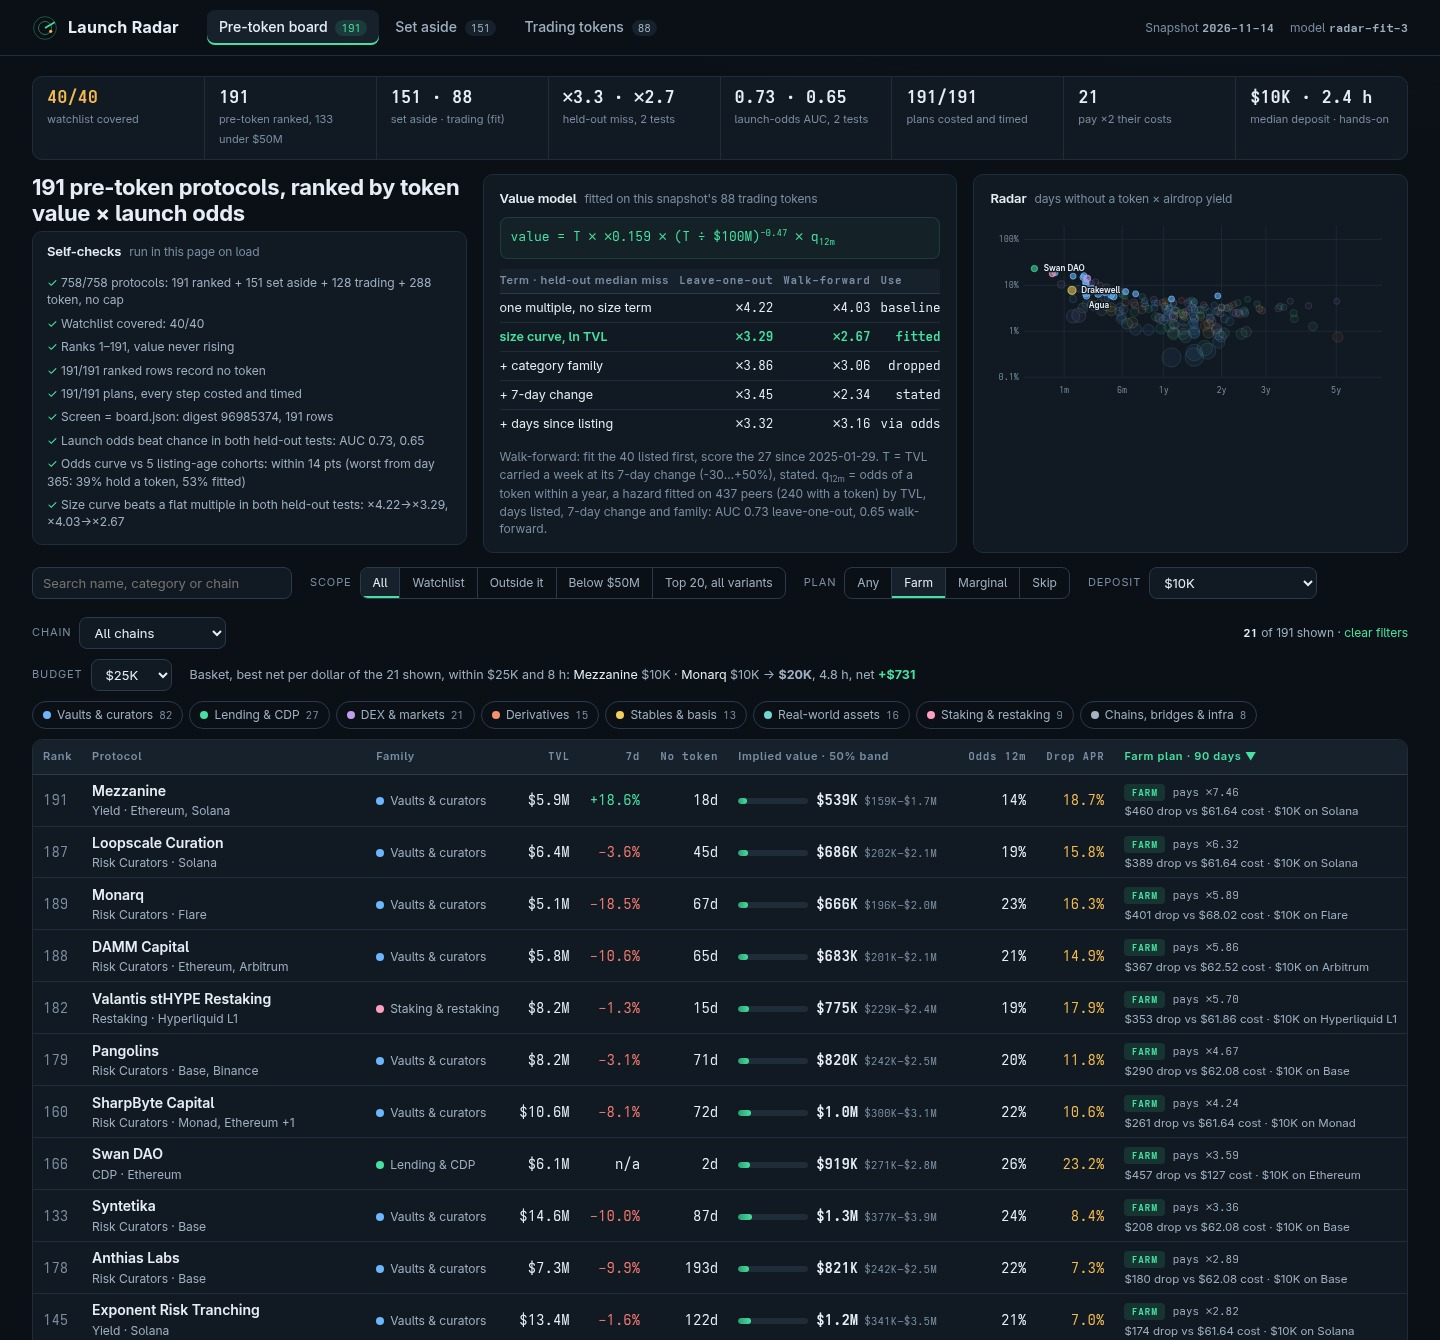
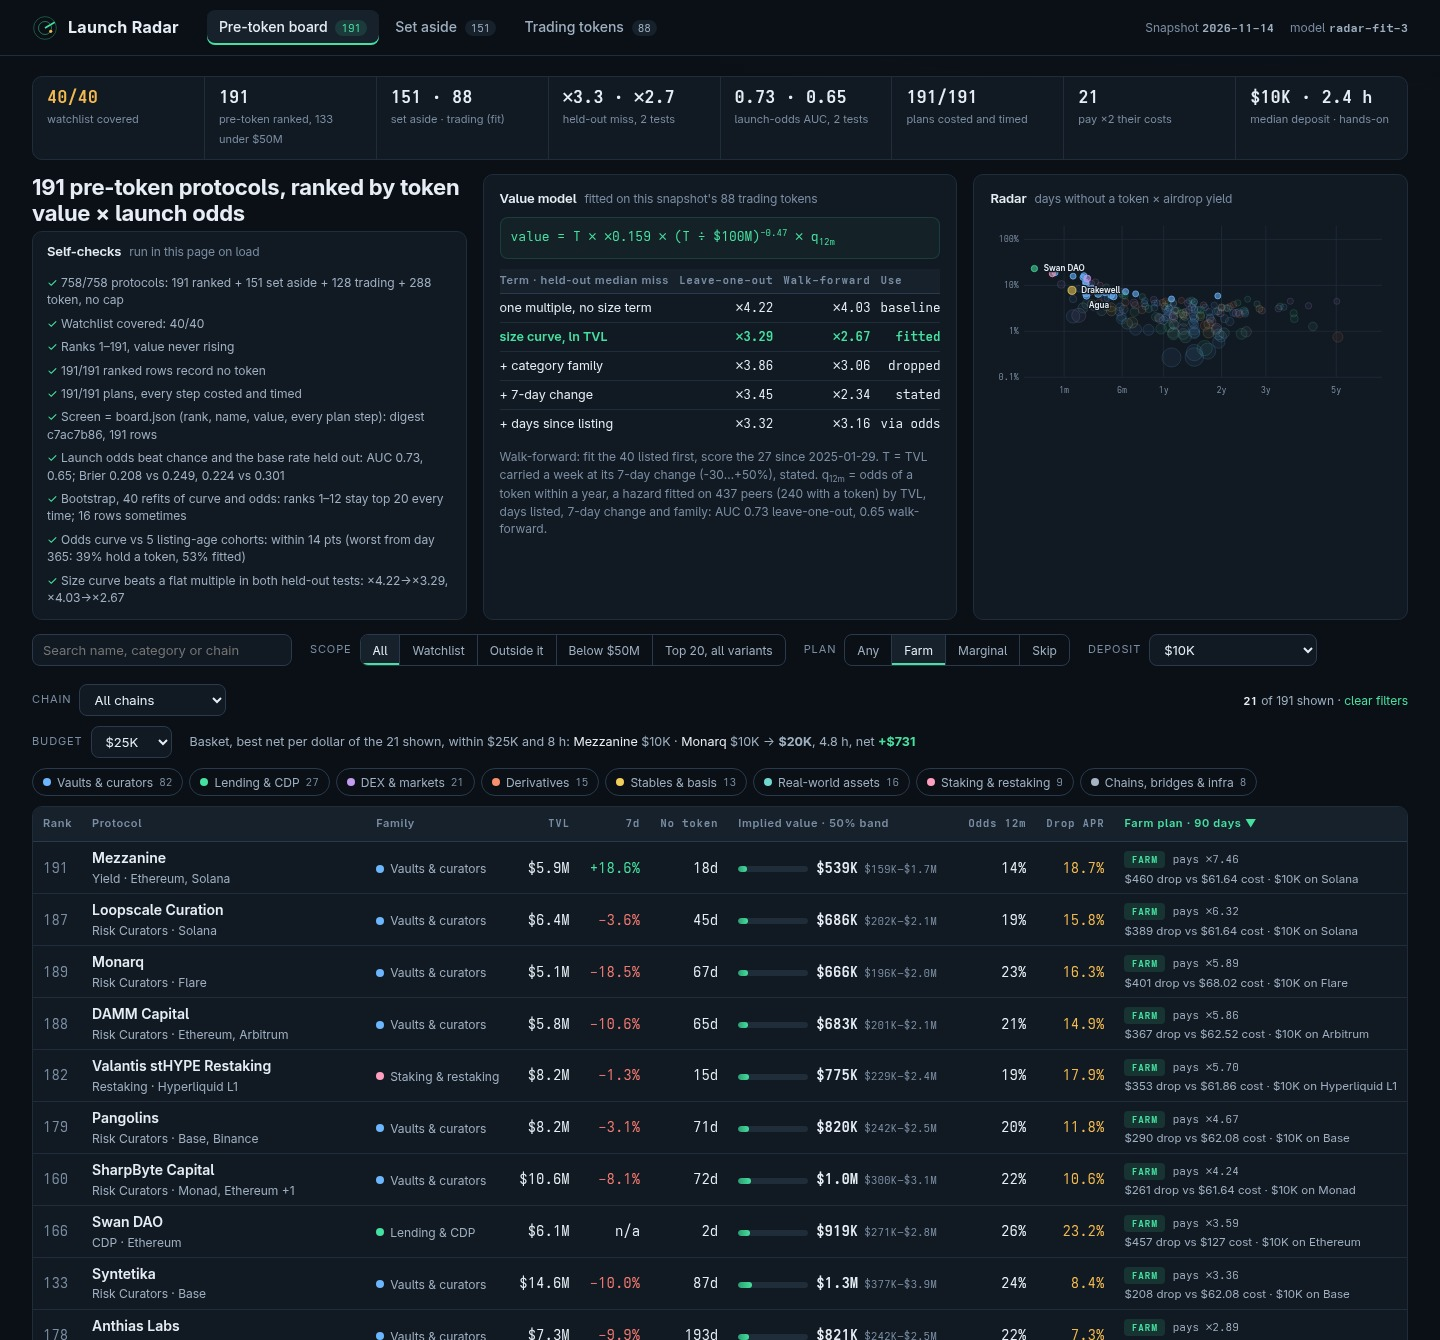
Launch odds Brier vs base rate (leave-one-out and walk-forward); 40-draw bootstrap of curve and odds with top-20 frequency; digest covers rank, name, value and every plan step; family entry decided by both held-out tests; shared table helper

diff --git a/dashboard/app.js b/dashboard/app.js
@@ -125,8 +125,9 @@
     [rows.every((r, i) => r.rank === i + 1 && (!i || r.v.implied <= rows[i - 1].v.implied)), `Ranks 1–${rows.length}, value never rising`],
     [rows.every((r) => r.p.gecko_id == null && r.p.symbol == null && r.p.mcap_usd == null), `${rows.length}/${rows.length} ranked rows record no token`],
     [bRows.every((b) => b.farm_steps.length >= 3 && b.farm_steps.length <= 12 && b.farm_steps.every((t) => / Cost: .+ Time: /.test(t))), `${bRows.length}/${bRows.length} plans, every step costed and timed`],
-    [B.digest === dig && B.rows === rows.length, `Screen = board.json: digest ${dig}, ${B.rows || 0} rows`],
-    [O.auc_loo > 0.5 && O.auc_wf > 0.5, `Launch odds beat chance in both held-out tests: AUC ${O.auc_loo.toFixed(2)}, ${O.auc_wf.toFixed(2)}`],
+    [B.digest === dig && B.rows === rows.length, `Screen = board.json (rank, name, value, every plan step): digest ${dig}, ${B.rows || 0} rows`],
+    [O.auc_loo > 0.5 && O.auc_wf > 0.5 && O.brier.loo < O.brier.loo_base && O.brier.wf < O.brier.wf_base, `Launch odds beat chance and the base rate held out: AUC ${O.auc_loo.toFixed(2)}, ${O.auc_wf.toFixed(2)}; Brier ${O.brier.loo.toFixed(3)} vs ${O.brier.loo_base.toFixed(3)}, ${O.brier.wf.toFixed(3)} vs ${O.brier.wf_base.toFixed(3)}`],
+    [true, `Bootstrap, 40 refits of curve and odds: ranks 1–${rows.findIndex((r) => r.boot < 1)} stay top 20 every time; ${rows.filter((r) => r.boot > 0 && r.boot < 1).length} rows sometimes`],
     ((w) => [O.gap < 0.2, `Odds curve vs ${O.cohorts.length} listing-age cohorts: within ${Math.round(O.gap * 100)} pts (worst from day ${w.from}: ${pc(w.actual)} hold a token, ${pc(w.fitted)} fitted)`])(O.cohorts.reduce((a, c) => Math.abs(c.actual - c.fitted) > Math.abs(a.actual - a.fitted) ? c : a)),
     [sizeT.ok, `Size curve beats a flat multiple in both held-out tests: ×${flatT.loo.toFixed(2)}→×${sizeT.loo.toFixed(2)}, ×${flatT.wf.toFixed(2)}→×${sizeT.wf.toFixed(2)}`]
   ];
@@ -215,7 +216,7 @@
       <div><h1>${esc(p.name)}</h1>
         <p class="tags">${famChip(v.family)}<span class="tag">${esc(p.category || 'Uncategorised')}</span><span class="tag pre">No token on record</span>${r.watch ? '<span class="tag wlt">On the watchlist</span>' : '<span class="tag">Outside the watchlist</span>'}</p>
         <p class="sub">${esc(p.chains.join(' · '))}${p.listed_at ? ` — tracked since ${esc(p.listed_at)}` : ' — no listing date on record'}</p></div>
-      <div class="dval"><small>Implied token value</small><b>${usd(v.implied)}</b><small>50% band ${usd(v.low)} – ${usd(v.high)} · ${mult(v.multiple)} TVL</small><small>Rank #${r.rank}; ${Object.keys(r.alt).map((k) => `#${r.alt[k]} ${k}`).join(' · ')}</small></div>
+      <div class="dval"><small>Implied token value</small><b>${usd(v.implied)}</b><small>50% band ${usd(v.low)} – ${usd(v.high)} · ${mult(v.multiple)} TVL</small><small>Top 20 in ${pc(r.boot)} of 40 bootstrap refits</small><small>Rank #${r.rank}; ${Object.keys(r.alt).map((k) => `#${r.alt[k]} ${k}`).join(' · ')}</small></div>
     </section>
     <div class="dgrid">
       <div class="col">
@@ -237,9 +238,7 @@
           <p class="note">Shaded: the 50% band, ×${fit.band_low.toFixed(2)}–×${fit.band_high.toFixed(2)}, the middle half of held-out misses. Ticks: the peers' market caps below. A model's claim, not a price.</p>
         </section>
         <section class="card"><h2>Nearest trading peers <span>${esc(fam.label)}, closest TVL</span></h2>
-          <table class="mini"><thead><tr><th>Protocol</th><th class="num">TVL</th><th class="num">Market cap</th><th class="num">÷ TVL</th></tr></thead><tbody>
-          ${peers.map((x) => `<tr><td>${esc(x.p.name)} <small>${esc(x.p.symbol || '')}</small></td><td class="num">${usd(x.tvl)}</td><td class="num">${usd(x.actual)}</td><td class="num">${mult(x.actual / x.tvl)}</td></tr>`).join('') || '<tr><td colspan="4">No trading peer in this family.</td></tr>'}
-          </tbody></table></section>
+          ${tbl('mini', ['Protocol', '#TVL', '#Market cap', '#÷ TVL'], peers.map((x) => [`${esc(x.p.name)} <small>${esc(x.p.symbol || '')}</small>`, usd(x.tvl), usd(x.actual), mult(x.actual / x.tvl)]))}</section>
       </div>
       <section class="card planc"><h2>Farm plan <span>${pl.days} days on ${esc(pl.chain)}</span></h2>
         <div class="pkpis">
@@ -259,19 +258,20 @@
     </div>`;
   }
 
+  // A plain table: heads starting with '#' are numeric columns; rows are arrays of cell HTML.
+  const tbl = (cls, heads, rows) => `<table class="${cls}"><thead><tr>${heads.map((h) => `<th${h[0] === '#' ? ' class="num"' : ''}>${h.replace('#', '')}</th>`).join('')}</tr></thead><tbody>${rows.map((c) => `<tr>${c.map((v, i) => `<td${heads[i][0] === '#' ? ' class="num"' : ''}>${v}</td>`).join('')}</tr>`).join('')}</tbody></table>`;
+  const nm = (n, sub) => `<b>${esc(n)}</b><small>${esc(sub)}</small>`;
   function aside() {
-    const body = radar.products.map((x) => `<tr><td class="proto"><span class="nm">${esc(x.p.name)}</span><small>${esc(x.p.chains.slice(0, 3).join(', '))}</small></td><td><span class="tag">${esc(x.kind)}</span></td><td class="num">${usd(x.p.tvl_usd)}</td><td class="num">${pct(x.p.change_7d)}</td></tr>`).join('');
     return `<section class="intro"><h1>${radar.products.length} products set aside, not ranked</h1>
       <p>No token of their own, but each is a wrapped, bridged, staked or exchange product, a versioned pool or a likely sibling of a trading token: the watchlist rule (productOf) applied to every protocol. Their value is the underlying token's.</p></section>
-      <div class="tablewrap"><table class="board"><thead><tr><th>Product</th><th>Why set aside</th><th class="num">TVL</th><th class="num">7d</th></tr></thead><tbody>${body}</tbody></table></div>`;
+      <div class="tablewrap">${tbl('board', ['Product', 'Why set aside', '#TVL', '#7d'], radar.products.map((x) => [nm(x.p.name, x.p.chains.slice(0, 3).join(', ')), `<span class="tag">${esc(x.kind)}</span>`, usd(x.p.tvl_usd), pct(x.p.change_7d)]))}</div>`;
   }
 
   function trading() {
-    const body = radar.live.map((l) => { const e = l.loo / l.actual; return `<tr><td class="proto"><span class="nm">${esc(l.p.name)}</span><small>${esc(l.p.symbol || '')} · ${esc(l.p.category || '')}</small></td><td class="num">${usd(l.tvl)}${l.members > 1 ? ` <small>${l.members} parts</small>` : ''}</td><td class="num">${usd(l.actual)}</td><td class="num">${mult(l.actual / l.tvl)}</td><td class="num">${usd(l.loo)}</td><td class="num ${e > 2 || e < 0.5 ? 'down' : 'up'}">${mult(e)}</td></tr>`; }).join('');
     return `<section class="intro"><h1>${fit.n} tokens that trade: the model's calibration set</h1>
       <p>Kept off the board: their market prices them. calibrate() pools TVL per token, leaves out exchanges and products, and fits ln(mcap ÷ TVL) on ln(TVL): value grows as TVL<sup>${fit.elasticity.toFixed(2)}</sup>. ${radar.listed_only} more record a token with no market cap.</p></section>
-      <div class="split"><div class="card"><h2>Held-out fit</h2><p class="note">Family pull k picked by leave-one-out miss: ×${fit.trials[0].median.toFixed(2)} → ×${fit.median_error.toFixed(2)}. Band ×${fit.band_low.toFixed(2)}–×${fit.band_high.toFixed(2)} holds ${fit.band_hits}/${fit.n}; ${fit.clipped} ratios clipped in the fit only.</p></div>
-      <div class="tablewrap"><table class="board"><thead><tr><th>Protocol</th><th class="num">TVL</th><th class="num">Market cap</th><th class="num">÷ TVL</th><th class="num">Fit without it</th><th class="num">÷ market</th></tr></thead><tbody>${body}</tbody></table></div></div>`;
+      <div class="split"><div class="card"><h2>Held-out fit</h2><p class="note">Leave-one-out median miss ×${fit.median_error.toFixed(2)}. Band ×${fit.band_low.toFixed(2)}–×${fit.band_high.toFixed(2)} holds ${fit.band_hits}/${fit.n}; ${fit.clipped} ratios clipped in the fit only.</p></div>
+      <div class="tablewrap">${tbl('board', ['Protocol', '#TVL', '#Market cap', '#÷ TVL', '#Fit without it', '#÷ market'], radar.live.map((l) => [nm(l.p.name, (l.p.symbol || '') + ' · ' + (l.p.category || '')), usd(l.tvl) + (l.members > 1 ? ` <small>${l.members} parts</small>` : ''), usd(l.actual), mult(l.actual / l.tvl), usd(l.loo), `<span class="${l.loo / l.actual > 2 || l.loo / l.actual < 0.5 ? 'down' : 'up'}">${mult(l.loo / l.actual)}</span>`]))}</div></div>`;
   }
 
   let planDep = '';

diff --git a/dashboard/model.js b/dashboard/model.js
@@ -9,7 +9,6 @@
     ref_tvl: 1e8, // the fit's reference size: $100M of TVL
     ratio_floor: 0.02, // mcap/TVL outliers are clipped before the fit
     ratio_cap: 20,
-    shrink_options: [0, 1, 2, 4, 8, 16, 32, Infinity], // k: pseudo-peers pulling a family to the mean
     growth_floor: -30, // 7-day change used for momentum, clipped (per cent)
     growth_cap: 50,
     odds_days: 365, // launch odds are for a token within this many days
@@ -79,26 +78,20 @@
       var t = tok[k];
       return { p: t.p, tvl: t.tvl, mcap: t.mcap, members: t.members, f: family(t.p), x: Math.log(t.tvl / M.ref_tvl), y: Math.log(clamp(t.mcap / t.tvl, M.ratio_floor, M.ratio_cap)) };
     });
-    // Misses are out of sample (leave-one-out) against the real, unclipped market cap. The family pull k,
-    // from 0 (families alone) to Infinity (one size curve), is the one with the smallest median miss.
-    function looMiss(k) {
-      return pts.map(function (q, i) { return Math.log(q.mcap / predict(fitPoints(pts.filter(function (o, j) { return j !== i; }), k), q)); });
-    }
-    var trials = M.shrink_options.map(function (k) {
-      var m = looMiss(k);
-      return { k: k, miss: m, median: Math.exp(quantile(m.map(Math.abs).sort(function (u, v) { return u - v; }), 0.5)) };
-    });
-    var best = trials.reduce(function (a, t) { return t.median < a.median - 1e-12 ? t : a; });
-    var full = fitPoints(pts, best.k), miss = best.miss;
+    // Category families enter the curve (k = 0) only if they lower the miss in both held-out tests, else
+    // one size curve (k = Infinity). Misses: leave-one-out, against the real, unclipped market cap.
+    var tests = termTests(pts, snap.as_of), k = tests.terms[2].ok ? 0 : Infinity;
+    var miss = pts.map(function (q, i) { return Math.log(q.mcap / predict(fitPoints(pts.filter(function (o, j) { return j !== i; }), k), q)); });
+    var full = fitPoints(pts, k);
     pts.forEach(function (q, i) { q.fit = Math.round(predict(full, q)); q.loo = q.mcap / Math.exp(miss[i]); });
     var sorted = miss.slice().sort(function (u, v) { return u - v; });
     var absMiss = miss.map(Math.abs).sort(function (u, v) { return u - v; });
     var inBand = 0, q25 = quantile(sorted, 0.25), q75 = quantile(sorted, 0.75);
     miss.forEach(function (m) { if (m >= q25 && m <= q75) inBand++; });
-    return { k: best.k, trials: trials.map(function (t) { return { k: t.k, median: t.median }; }), slope: full.b, elasticity: 1 + full.b, base: Math.exp(full.all), families: full.fams, n: pts.length, points: pts,
+    return { k: k, slope: full.b, elasticity: 1 + full.b, base: Math.exp(full.all), families: full.fams, n: pts.length, points: pts,
       median_error: Math.exp(quantile(absMiss, 0.5)), band_low: Math.exp(q25), band_high: Math.exp(q75), band_hits: inBand,
       clipped: pts.filter(function (q) { var r = q.mcap / q.tvl; return r < M.ratio_floor || r > M.ratio_cap; }).length,
-      tests: termTests(pts, snap.as_of), odds: launchOdds(snap) };
+      tests: tests, odds: launchOdds(snap) };
   }
 
   /* Launch odds. F(p, a) = fitted share of peers (not exchanges or products) holding a token at age a,
@@ -141,7 +134,14 @@
       var m = pts.filter(function (q) { return q.a != null && q.a >= lo && q.a < edges[c + 1]; }), n = m.length || 1;
       return { from: lo, n: m.length, actual: m.reduce(function (t, q) { return t + q.y; }, 0) / n, fitted: m.reduce(function (t, q) { return t + F(q.p, q.a); }, 0) / n };
     });
-    return { w: w, cohorts: cohorts, gap: Math.max.apply(null, cohorts.map(function (c) { return Math.abs(c.actual - c.fitted); })), n: pts.length, with_token: pts.filter(function (q) { return q.y; }).length, auc_loo: auc(loo), auc_wf: auc(wf), wf_n: wf.length,
+    // Brier score (mean squared probability error) against the base rate, both held out the same way.
+    var S = pts.reduce(function (t, q) { return t + q.y; }, 0), n = pts.length, rate = dated.slice(0, cut).reduce(function (t, q) { return t + q.y; }, 0) / cut;
+    var bri = function (T, f) { return T.reduce(function (t, q) { return t + Math.pow(f(q) - q.y, 2); }, 0) / T.length; };
+    var brier = { loo: bri(loo, function (q) { return sig(q.s); }), loo_base: bri(pts, function (q) { return (S - q.y) / (n - 1); }),
+      wf: bri(wf, function (q) { return sig(q.s); }), wf_base: bri(wf, function () { return rate; }) };
+    // A bootstrap refit: the odds curve fitted again on a resample of the peers.
+    var boot = function (rnd) { var wb = logit(pts.map(function () { return pts[Math.floor(rnd() * n)]; }), w, 4); return function (p, a) { return sig(dot(wb, X(p, a))); }; };
+    return { boot: boot, brier: brier, w: w, cohorts: cohorts, gap: Math.max.apply(null, cohorts.map(function (c) { return Math.abs(c.actual - c.fitted); })), n: pts.length, with_token: pts.filter(function (q) { return q.y; }).length, auc_loo: auc(loo), auc_wf: auc(wf), wf_n: wf.length,
       F: F };
   }
   function sig(z) { return 1 / (1 + Math.exp(-z)); }
@@ -193,7 +193,7 @@
   // FNV-1a of each row's slug and value: main.ts writes it to data.js, the cover recomputes and compares.
   function digest(rows) {
     var h = 2166136261;
-    rows.forEach(function (r) { var s = r.slug + ':' + r.implied_value_usd + '|'; for (var i = 0; i < s.length; i++) { h ^= s.charCodeAt(i); h = Math.imul(h, 16777619) >>> 0; } });
+    rows.forEach(function (r) { var s = [r.rank, r.slug, r.name, r.implied_value_usd].concat(r.farm_steps).join('|'); for (var i = 0; i < s.length; i++) { h ^= s.charCodeAt(i); h = Math.imul(h, 16777619) >>> 0; } });
     return ('0000000' + h.toString(16)).slice(-8);
   }
   function quantile(a, t) { var i = (a.length - 1) * t, lo = Math.floor(i); return a[lo] + (a[Math.min(lo + 1, a.length - 1)] - a[lo]) * (i - lo); }
@@ -329,6 +329,18 @@
       'at 2-year odds': function (r) { return r.v.fitted * (fit.odds.F(r.p, r.v.age_used + 730) - r.v.f0) / (1 - r.v.f0); },
       'if launched': function (r) { return r.v.fitted; } };
     Object.keys(ALT).forEach(function (k) { rows.slice().sort(function (a, b) { return ALT[k](b) - ALT[k](a) || bySlug(a.p, b.p); }).forEach(function (r, i) { (r.alt = r.alt || {})[k] = i + 1; }); });
+    // Bootstrap: refit the value curve on resampled trading tokens and the launch odds on resampled peers,
+    // 40 seeded draws (every run agrees), and count how often each row ranks in the top 20.
+    var seed = 7, rnd = function () { seed = (seed * 16807) % 2147483647; return seed / 2147483647; };
+    rows.forEach(function (r) { r.boot = 0; });
+    for (var d = 0; d < 40; d++) {
+      var bs = fit.points.map(function () { return fit.points[Math.floor(rnd() * fit.points.length)]; }), bf = fitPoints(bs, fit.k), Fb = fit.odds.boot(rnd);
+      rows.map(function (r) {
+        var a = r.v.age_used, f0 = Fb(r.p, a), qb = (Fb(r.p, a + M.odds_days) - f0) / (1 - f0);
+        return { r: r, s: r.v.tvl_next * Math.exp(bf.fams[r.v.family].ln + bf.b * Math.log(r.v.tvl_next / M.ref_tvl)) * qb };
+      })
+        .sort(function (a, b) { return b.s - a.s || bySlug(a.r.p, b.r.p); }).slice(0, 20).forEach(function (o) { o.r.boot += 1 / 40; });
+    }
     rows.forEach(function (r) { r.stable = r.rank <= 20 && Object.keys(r.alt).every(function (k) { return r.alt[k] <= 20; }); });
     var live = fit.points.map(function (q) { return { p: q.p, tvl: q.tvl, members: q.members, family: q.f, fit: q.fit, loo: Math.round(q.loo), actual: q.mcap }; })
       .sort(function (a, b) { return b.actual - a.actual || bySlug(a.p, b.p); });
